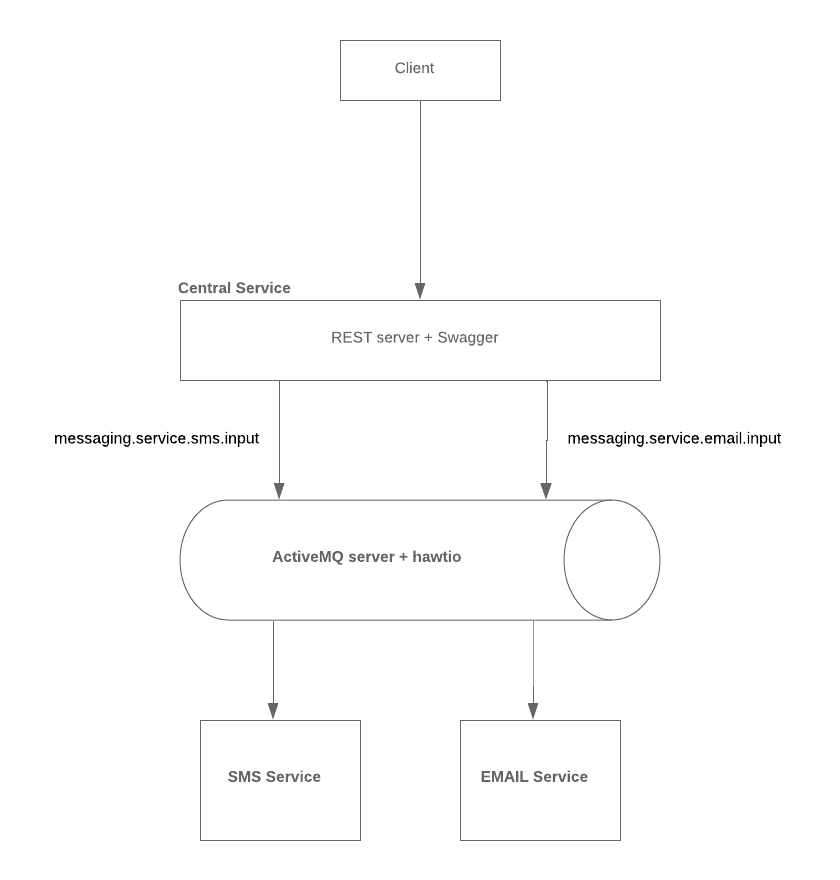
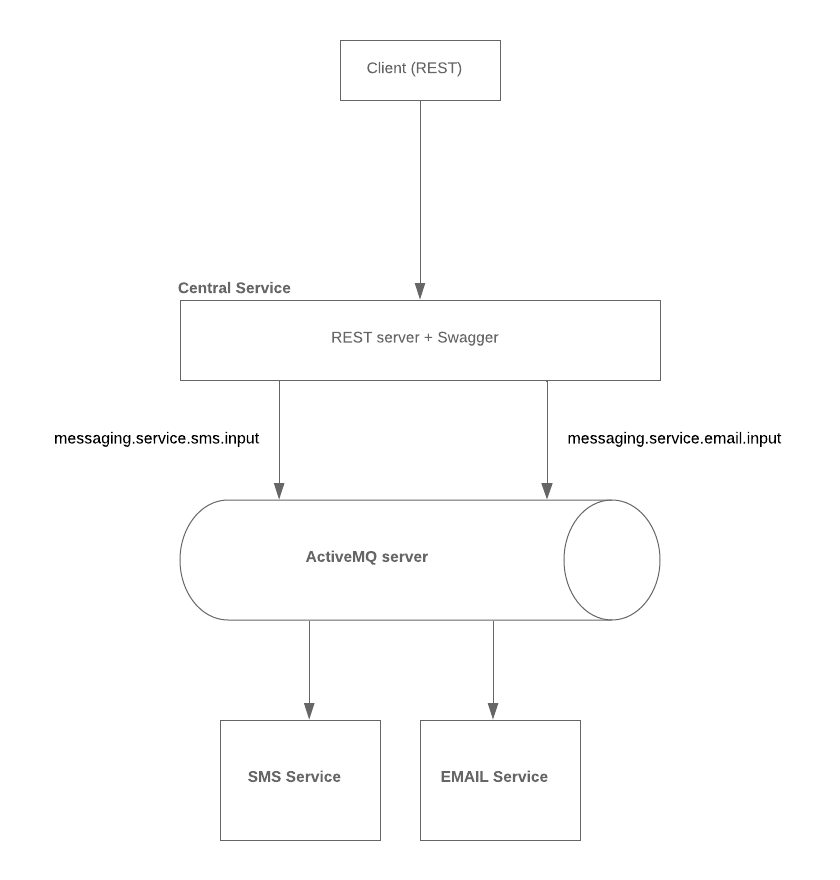
[lesson2] docs update

diff --git a/lesson2/readme.md b/lesson2/readme.md
@@ -29,12 +29,14 @@ docker-compose up
 ![Архитектура](readme.md-arch.png)
 
 
+#### Логика работы
+как все работает
+как работает получение статуса
+конфиги
 
-//TODO: логика работы
-//TODO: описать текушие сервисы и как они взаимодействуют (конфиги)
-//TODO: как добавлять новые сервисы
-//TODO: image
-//TODO: получение статуса
+#### Добавление новых сервисов
+новый метод в REST - кладем сообщение в новую очередь
+новый микросервис, который слкшает эту очередь
 
 ## Пример вызова
 

diff --git a/lesson2/tasks.md b/lesson2/tasks.md
@@ -2,20 +2,10 @@
 + save and return status for sms/email
 + research: pojo with json generation
 
-- docs
-- docker
-- research: remove embedded amq from central and start it on docker-compose(+hawtio)
++ docker
++ research: remove embedded amq from central and start it on docker-compose(+hawtio)
 
+- docs
 - listeners - unit tests with local amq
 - docker with maven as kkm
 - clean pom.xml - minimal rest
-
-
-
-### Formats
-#### email
-{
-  "to":"to",
-  "title":"title",
-  "message":"message"
-}
